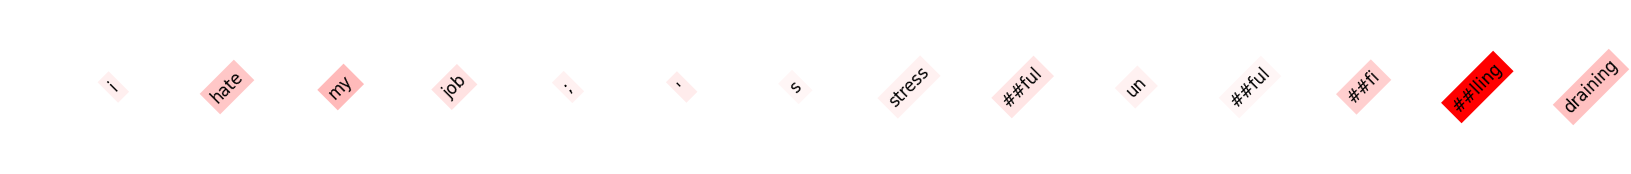
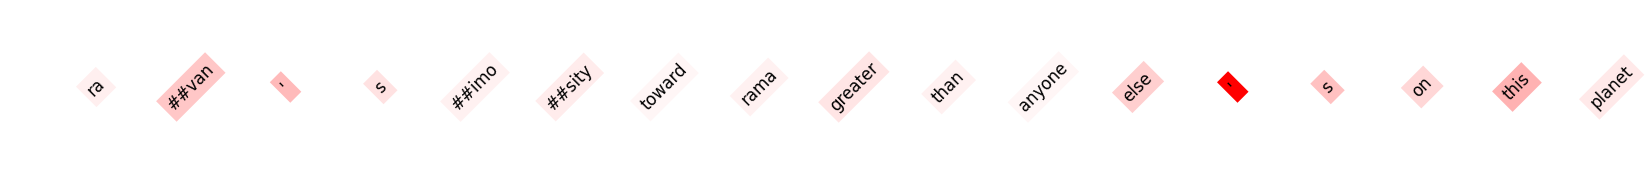
basic test reconstruction

diff --git a/t_trace/analysis/dash_ui.py b/t_trace/analysis/dash_ui.py
@@ -14,7 +14,7 @@ logs_df = pd.read_parquet("/home/dhana/Documents/Ai/mtrace/t-trace/logs/bert_lay
 tokenizer = BertTokenizer.from_pretrained('bert-base-uncased')
 
 # Sample input text
-text = "I hate my job; it's stressful, unfulfilling, and draining."
+text = "Ravan's animosity toward Rama is greater than anyone else's on this planet."
 
 # Tokenize the input text
 tokens = tokenizer.tokenize(text)  # Get token strings
@@ -138,4 +138,4 @@ def update_heatmap(tab):
 
 # Run app
 if __name__ == "__main__":
-    app.run(host="192.168.1.35",port=8060, debug=True)
+    app.run(host="192.168.1.35",port=8064, debug=True)

diff --git a/t_trace/analysis/t_trace_log_analysis_experment.py b/t_trace/analysis/t_trace_log_analysis_experment.py
@@ -15,9 +15,9 @@ logs_df = pd.read_parquet("/home/dhana/Documents/Ai/mtrace/t-trace/logs/bert_lay
 tokenizer = BertTokenizer.from_pretrained('bert-base-uncased')
 # Sample input text to pass through BERT
 
-#text = "Ravan's animosity toward Rama is greater than anyone else's on this planet."
+text = "Ravan's animosity toward Rama is greater than anyone else's on this planet."
 
-text = "I hate my job; it's stressful, unfulfilling, and draining."
+#text = "I hate my job; it's stressful, unfulfilling, and draining."
 # Tokenize the input text
 tokens = tokenizer.tokenize(text)  # Get token strings
 

diff --git a/t_trace/experiments/test_bert_logging.py b/t_trace/experiments/test_bert_logging.py
@@ -70,8 +70,8 @@ logging_pipeline = LoggingPipeline(model)
 # Enable logging hooks for all layers
 logging_pipeline.enable_logging()
 
-#text = "Ravan's disdain for Rama exceeds that of every other individual on the planet."
-text = "Setha loves Rama more than any one on this planet."
+text = "Ravan's disdain for Rama exceeds that of every other individual on the planet."
+#text = "Setha loves Rama more than any one on this planet."
 #text = "Setha loves Rama more than any one on this planet."
 
 # Tokenize the input text
